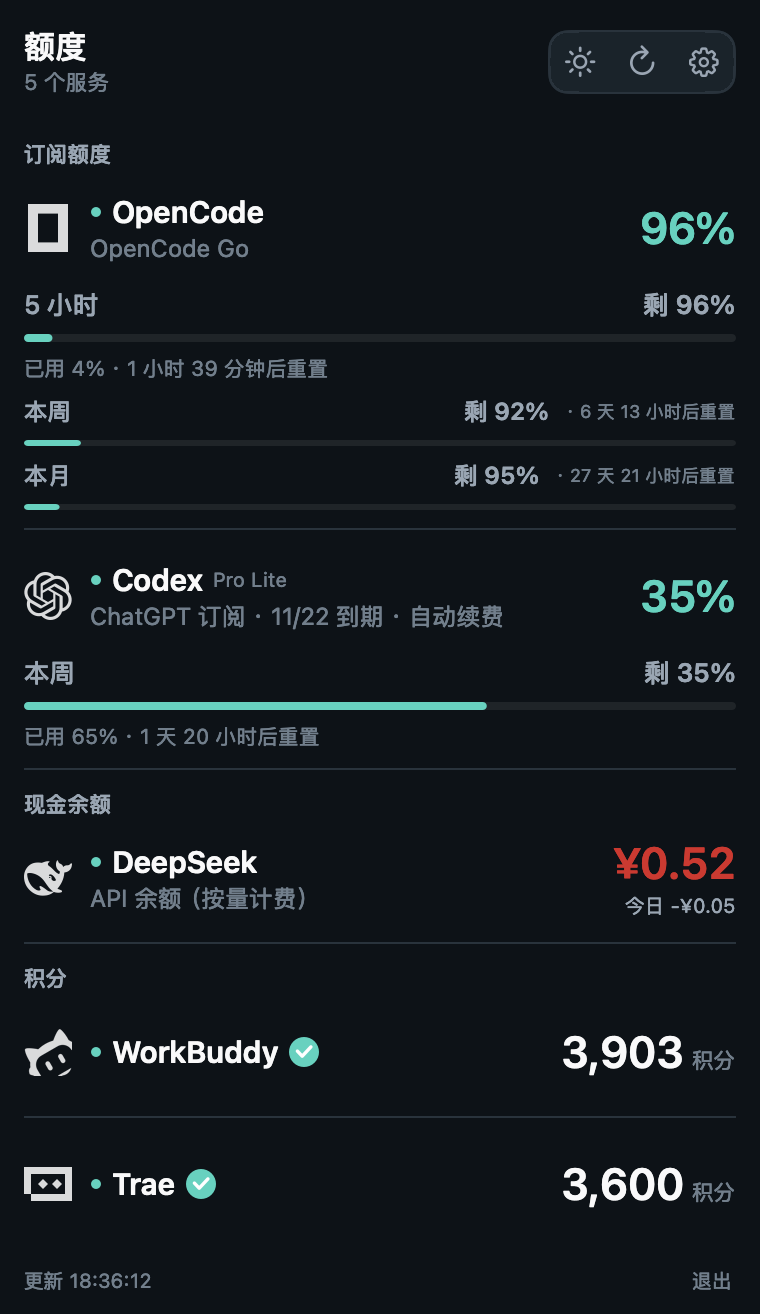
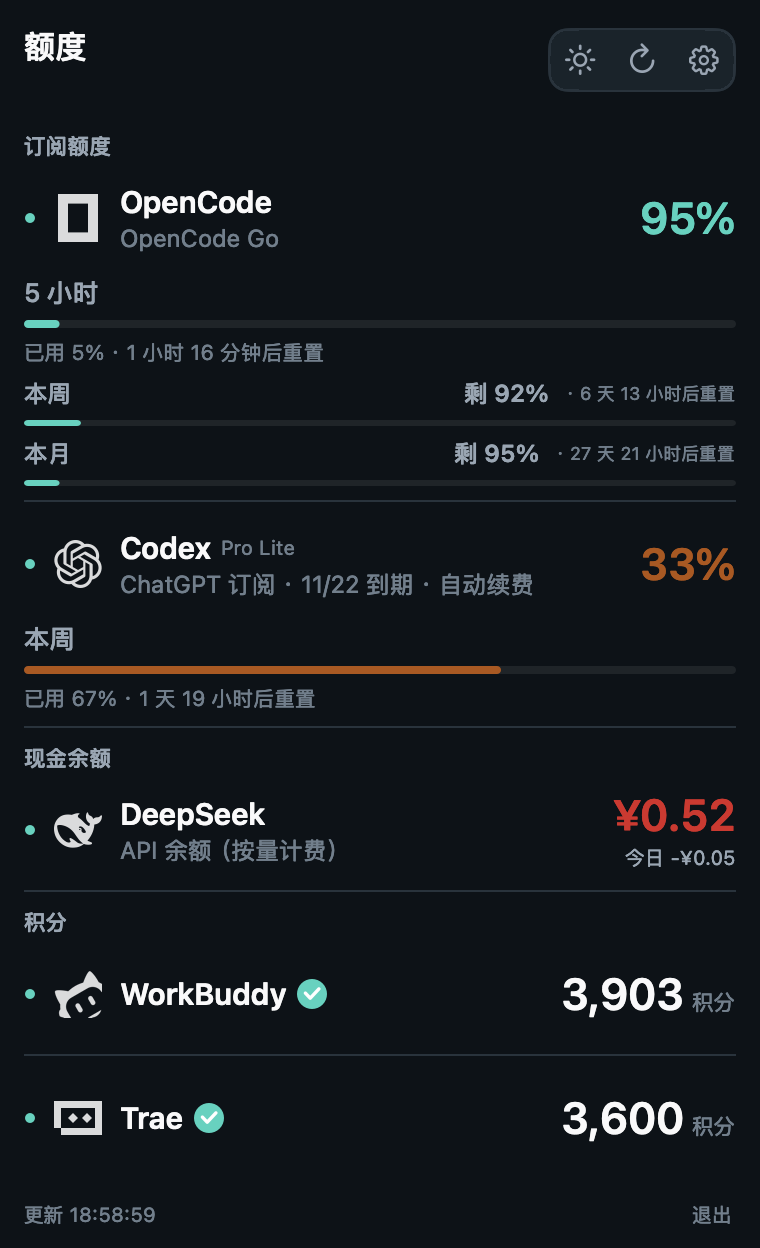
Tighten panel hierarchy and settings form alignment

diff --git a/Sources/AgentQuotaBar/SettingsWindowController.swift b/Sources/AgentQuotaBar/SettingsWindowController.swift
@@ -368,7 +368,7 @@ final class SettingsWindowController: NSWindowController {
             sidebar.topAnchor.constraint(equalTo: container.topAnchor),
             sidebar.leadingAnchor.constraint(equalTo: container.leadingAnchor),
             sidebar.bottomAnchor.constraint(equalTo: container.bottomAnchor),
-            sidebar.widthAnchor.constraint(equalToConstant: 188),
+            sidebar.widthAnchor.constraint(equalToConstant: 200),
 
             sidebarLine.topAnchor.constraint(equalTo: container.topAnchor),
             sidebarLine.leadingAnchor.constraint(equalTo: sidebar.trailingAnchor),
@@ -542,18 +542,21 @@ final class SettingsWindowController: NSWindowController {
                                        action: #selector(navTapped(_:)), target: self)
             button.tag = index
             button.translatesAutoresizingMaskIntoConstraints = false
-            button.heightAnchor.constraint(equalToConstant: 34).isActive = true
-            button.widthAnchor.constraint(equalToConstant: 168).isActive = true
+            button.heightAnchor.constraint(equalToConstant: 38).isActive = true
+            button.widthAnchor.constraint(equalToConstant: 184).isActive = true
             nav.addArrangedSubview(button)
             navButtons.append(button)
         }
 
-        let background = label("后台签到 · 已启用", size: 10, weight: .medium, color: Theme.success)
+        let background = label("后台签到已启用", size: 10, weight: .medium, color: Theme.success)
         background.translatesAutoresizingMaskIntoConstraints = false
         sidebar.addSubview(background)
-        let version = label(appVersionText, size: 10, color: Theme.tertiary)
-        version.translatesAutoresizingMaskIntoConstraints = false
-        sidebar.addSubview(version)
+        let configButton = NSButton(title: "打开配置文件", target: self, action: #selector(openConfig))
+        configButton.isBordered = false
+        configButton.font = .systemFont(ofSize: 10.5)
+        configButton.contentTintColor = Theme.accent
+        configButton.translatesAutoresizingMaskIntoConstraints = false
+        sidebar.addSubview(configButton)
 
         NSLayoutConstraint.activate([
             header.topAnchor.constraint(equalTo: sidebar.topAnchor, constant: 44),
@@ -565,9 +568,9 @@ final class SettingsWindowController: NSWindowController {
             nav.trailingAnchor.constraint(equalTo: sidebar.trailingAnchor, constant: -14),
 
             background.leadingAnchor.constraint(equalTo: sidebar.leadingAnchor, constant: 20),
-            background.bottomAnchor.constraint(equalTo: version.topAnchor, constant: -4),
-            version.leadingAnchor.constraint(equalTo: sidebar.leadingAnchor, constant: 20),
-            version.bottomAnchor.constraint(equalTo: sidebar.bottomAnchor, constant: -18),
+            background.bottomAnchor.constraint(equalTo: configButton.topAnchor, constant: -5),
+            configButton.leadingAnchor.constraint(equalTo: sidebar.leadingAnchor, constant: 20),
+            configButton.bottomAnchor.constraint(equalTo: sidebar.bottomAnchor, constant: -18),
         ])
     }
 
@@ -634,7 +637,7 @@ final class SettingsWindowController: NSWindowController {
         refreshPopup.target = self
         refreshPopup.action = #selector(refreshOptionChanged)
         refreshPopup.translatesAutoresizingMaskIntoConstraints = false
-        refreshPopup.widthAnchor.constraint(equalToConstant: 260).isActive = true
+        refreshPopup.widthAnchor.constraint(equalToConstant: 160).isActive = true
 
         proxyField.font = .systemFont(ofSize: 12)
         proxyField.bezelStyle = .roundedBezel
@@ -643,7 +646,7 @@ final class SettingsWindowController: NSWindowController {
         proxyField.setAccessibilityLabel("系统代理")
         proxyField.delegate = self
         proxyField.translatesAutoresizingMaskIntoConstraints = false
-        proxyField.widthAnchor.constraint(equalToConstant: 260).isActive = true
+        proxyField.widthAnchor.constraint(equalToConstant: 240).isActive = true
 
         loginSwitch.target = self
         loginSwitch.action = #selector(loginSwitchChanged)
@@ -673,7 +676,7 @@ final class SettingsWindowController: NSWindowController {
         appearanceControl.action = #selector(appearanceChanged)
         appearanceControl.setAccessibilityLabel("外观")
         appearanceControl.translatesAutoresizingMaskIntoConstraints = false
-        appearanceControl.widthAnchor.constraint(equalToConstant: 260).isActive = true
+        appearanceControl.widthAnchor.constraint(equalToConstant: 240).isActive = true
 
         checkinSwitch.isOn = checkin.isAutoEnabled
         checkinSwitch.target = self
@@ -873,7 +876,7 @@ final class SettingsWindowController: NSWindowController {
         menuBarModePopup.action = #selector(menuBarModeChanged)
         menuBarModePopup.setAccessibilityLabel("菜单栏显示方式")
         menuBarModePopup.translatesAutoresizingMaskIntoConstraints = false
-        menuBarModePopup.widthAnchor.constraint(equalToConstant: 250).isActive = true
+        menuBarModePopup.widthAnchor.constraint(equalToConstant: 240).isActive = true
 
         fixedProviderPopup.removeAllItems()
         for id in providerOrder {
@@ -887,7 +890,7 @@ final class SettingsWindowController: NSWindowController {
         fixedProviderPopup.action = #selector(fixedProviderSelected)
         fixedProviderPopup.setAccessibilityLabel("固定显示的服务")
         fixedProviderPopup.translatesAutoresizingMaskIntoConstraints = false
-        fixedProviderPopup.widthAnchor.constraint(equalToConstant: 260).isActive = true
+        fixedProviderPopup.widthAnchor.constraint(equalToConstant: 240).isActive = true
 
         scaleSlider.minValue = 0.8
         scaleSlider.maxValue = 1.6
@@ -1320,8 +1323,8 @@ final class SettingsWindowController: NSWindowController {
         NSLayoutConstraint.activate([
             stack.topAnchor.constraint(equalTo: card.topAnchor, constant: 4),
             stack.bottomAnchor.constraint(equalTo: card.bottomAnchor, constant: -4),
-            stack.leadingAnchor.constraint(equalTo: card.leadingAnchor, constant: 16),
-            stack.trailingAnchor.constraint(equalTo: card.trailingAnchor, constant: -16),
+            stack.leadingAnchor.constraint(equalTo: card.leadingAnchor, constant: 20),
+            stack.trailingAnchor.constraint(equalTo: card.trailingAnchor, constant: -20),
         ])
         for row in rows {
             row.widthAnchor.constraint(equalTo: stack.widthAnchor).isActive = true
@@ -1451,7 +1454,13 @@ final class SettingsWindowController: NSWindowController {
             self?.manageAccounts(for: id)
         }
         manageAccounts.font = .systemFont(ofSize: 11, weight: .medium)
-        manageAccounts.contentTintColor = Theme.accent
+        manageAccounts.attributedTitle = NSAttributedString(
+            string: "账户管理",
+            attributes: [
+                .font: NSFont.systemFont(ofSize: 11, weight: .medium),
+                .foregroundColor: NSColor.linkColor,
+            ]
+        )
         manageAccounts.identifier = NSUserInterfaceItemIdentifier(id)
         manageAccounts.setAccessibilityLabel("管理 \(style.shortName) 账户")
         manageAccounts.toolTip = "添加、编辑、删除或切换账户"

diff --git a/Sources/AgentQuotaBar/PopoverViewController.swift b/Sources/AgentQuotaBar/PopoverViewController.swift
@@ -102,12 +102,14 @@ final class QuotaPopoverViewController: NSViewController {
 
         subtitleLabel.font = .systemFont(ofSize: 11)
         subtitleLabel.textColor = Theme.tertiary
+        subtitleLabel.isHidden = true
         subtitleLabel.lineBreakMode = .byTruncatingTail
 
         let titles = NSStackView(views: [titleLabel, subtitleLabel])
         titles.orientation = .vertical
         titles.alignment = .leading
         titles.spacing = 1
+        titles.detachesHiddenViews = true
 
         spinner.style = .spinning
         spinner.controlSize = .small
@@ -459,9 +461,9 @@ final class QuotaPopoverViewController: NSViewController {
             row.addGestureRecognizer(pan)
         }
 
-        subtitleLabel.stringValue = isOffline
-            ? "网络未连接 · 显示上次数据"
-            : (isRefreshing ? "正在刷新…" : "\(snapshot.usableCount) 个服务")
+        let subtitle = isOffline ? "网络未连接 · 显示上次数据" : (isRefreshing ? "正在刷新…" : "")
+        subtitleLabel.stringValue = subtitle
+        subtitleLabel.isHidden = subtitle.isEmpty
 
         if isOffline {
             footerLabel.stringValue = "⚠ 网络未连接，联网后自动刷新"
@@ -719,11 +721,11 @@ final class ProviderRowView: NSView {
         let stack = NSStackView()
         stack.orientation = .vertical
         stack.alignment = .leading
-        stack.spacing = 7
+        stack.spacing = 6
         stack.translatesAutoresizingMaskIntoConstraints = false
         addSubview(stack)
         NSLayoutConstraint.activate([
-            stack.topAnchor.constraint(equalTo: topAnchor, constant: 10),
+            stack.topAnchor.constraint(equalTo: topAnchor, constant: 8),
             stack.leadingAnchor.constraint(equalTo: leadingAnchor),
             stack.trailingAnchor.constraint(equalTo: trailingAnchor),
         ])
@@ -744,7 +746,7 @@ final class ProviderRowView: NSView {
         }
         statusDot.color = statusColor
         statusDot.toolTip = provider.status == "ok" ? "已连接" : (provider.error ?? provider.detail ?? provider.status)
-        let nameRow = NSStackView(views: [statusDot, name])
+        let nameRow = NSStackView(views: [name])
         nameRow.orientation = .horizontal
         nameRow.spacing = 5
         nameRow.alignment = .centerY
@@ -840,7 +842,7 @@ final class ProviderRowView: NSView {
             categoryLabel.widthAnchor.constraint(equalTo: stack.widthAnchor).isActive = true
         }
 
-        let header = NSStackView(views: [badge, info, spacer, valueStack])
+        let header = NSStackView(views: [statusDot, badge, info, spacer, valueStack])
         header.orientation = .horizontal
         header.alignment = .centerY
         header.spacing = 9
@@ -880,12 +882,14 @@ final class ProviderRowView: NSView {
             let metaSpacer = NSView()
             metaSpacer.setContentHuggingPriority(NSLayoutConstraint.Priority(1), for: .horizontal)
             meta.addArrangedSubview(metaSpacer)
-            meta.addArrangedSubview(label(
-                "剩 \(Int(remaining.rounded()))%",
-                size: titleSize,
-                weight: .semibold,
-                color: remaining <= QuotaStyle.warningPercent ? severity.color : Theme.secondary
-            ))
+            if percentMetrics.count > 1, !primary {
+                meta.addArrangedSubview(label(
+                    "剩 \(Int(remaining.rounded()))%",
+                    size: titleSize,
+                    weight: .semibold,
+                    color: remaining <= QuotaStyle.warningPercent ? severity.color : Theme.secondary
+                ))
+            }
             if !primary, let detail = metric.detail, !detail.isEmpty {
                 meta.addArrangedSubview(label("· \(detail)", size: 9, color: Theme.tertiary))
             }
@@ -950,7 +954,7 @@ final class ProviderRowView: NSView {
             messageLabel.widthAnchor.constraint(lessThanOrEqualTo: stack.widthAnchor, constant: -54).isActive = true
         }
 
-        stack.bottomAnchor.constraint(equalTo: bottomAnchor, constant: -10).isActive = true
+        stack.bottomAnchor.constraint(equalTo: bottomAnchor, constant: -8).isActive = true
 
         separator.wantsLayer = true
         separator.layer?.backgroundColor = Theme.separator.resolvedCGColor()
